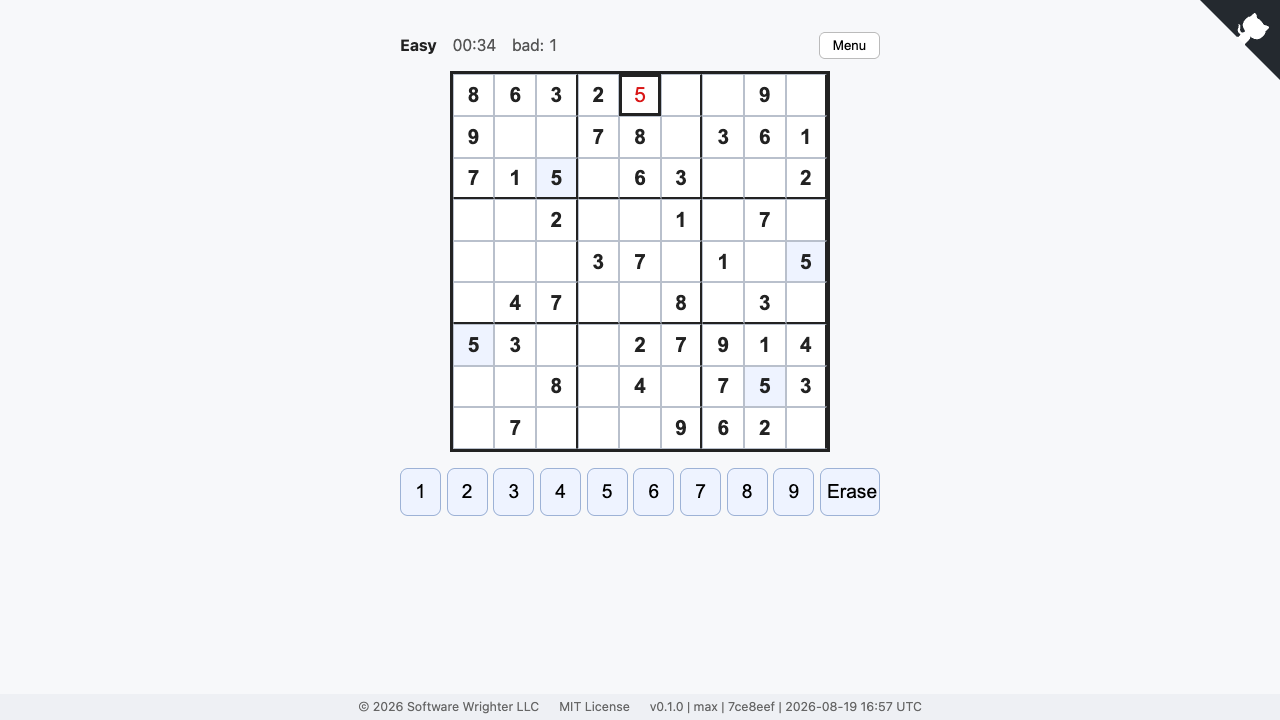
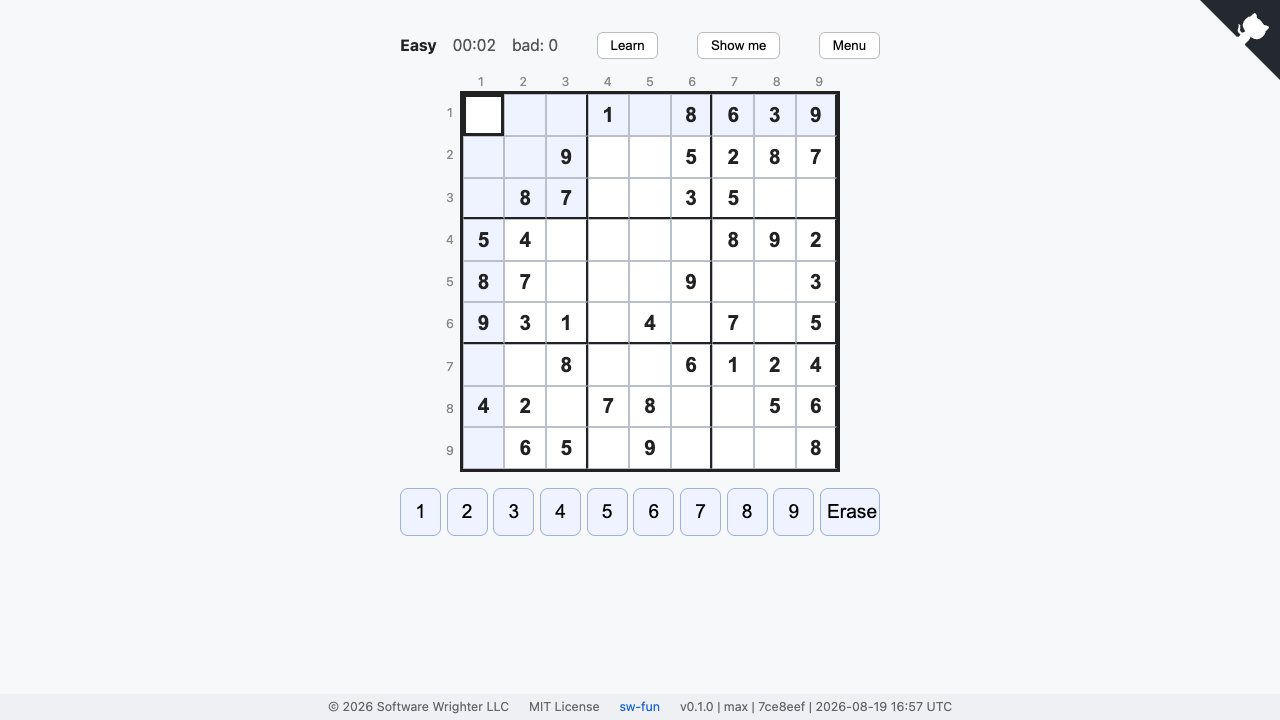
docs: four README screenshots - menu, board, learn mode, show me
Screenshot refresh for the teaching features:
- board-in-play.png recaptured so the game header shows the new Learn
  and Show me buttons (Easy board mid-game with a selection).
- learn-mode.png added: a Naked Pair walkthrough with the two pattern
  cells outlined blue, row 7 tinted green, and pencil marks visible.
- show-me.png added: show-me solving with a Naked Single placement
  pulsing green, Auto checked, the 1s/3s/6s speed selector visible.
- x-wing-walkthrough.png retired (superseded by learn-mode.png); the
  README now carries exactly four captioned captures.

All three captured with playwright-cli against a locally served trunk
build, staged via DOM clicks, and verified for the intended UI before
shooting (titles, tutor-cell/tutor-unit counts, auto/speed state).

Gates: just check green (fmt, clippy -D warnings, workspace tests,
docs check over the new image set, sw-checklist 0 failed).

Changed region(s): [[0.3125, 0.0611, 0.6875, 0.7333], [0.25, 0.9778, 0.75, 1.0]]

diff --git a/.agentrail/steps/010-refresh-screenshots/prompt.md b/.agentrail/steps/010-refresh-screenshots/prompt.md
@@ -1,0 +1,1 @@
+README screenshot refresh: (1) recapture docs/images/board-in-play.png so the game header shows the new Learn and Show me buttons (mid-game board with a selection and pencil marks off); (2) add docs/images/learn-mode.png - Learn panel open listing strategies with one walkthrough showing colored pattern/unit emphasis; (3) add docs/images/show-me.png - Show me active with a walkthrough, Auto + speed selector visible. Use playwright-cli against a locally served build (basic-http-server), stage boards via DOM clicks, verify each capture shows the intended UI, reference all three from README.md in a captioned block; check-docs + sw-checklist; just check green, named-file commit, agentrail complete, push origin main.

diff --git a/README.md b/README.md
@@ -9,7 +9,9 @@ Browser-based Sudoku built with Rust, Yew, and WASM.
 
 ![Board in play](docs/images/board-in-play.png)
 
-![Learning the X-Wing](docs/images/x-wing-walkthrough.png)
+![Learn mode](docs/images/learn-mode.png)
+
+![Show me](docs/images/show-me.png)
 
 Learn mode teaches solving strategies on the live board: it lists every
 strategy currently applicable (singles, pointing/claiming, pairs,
